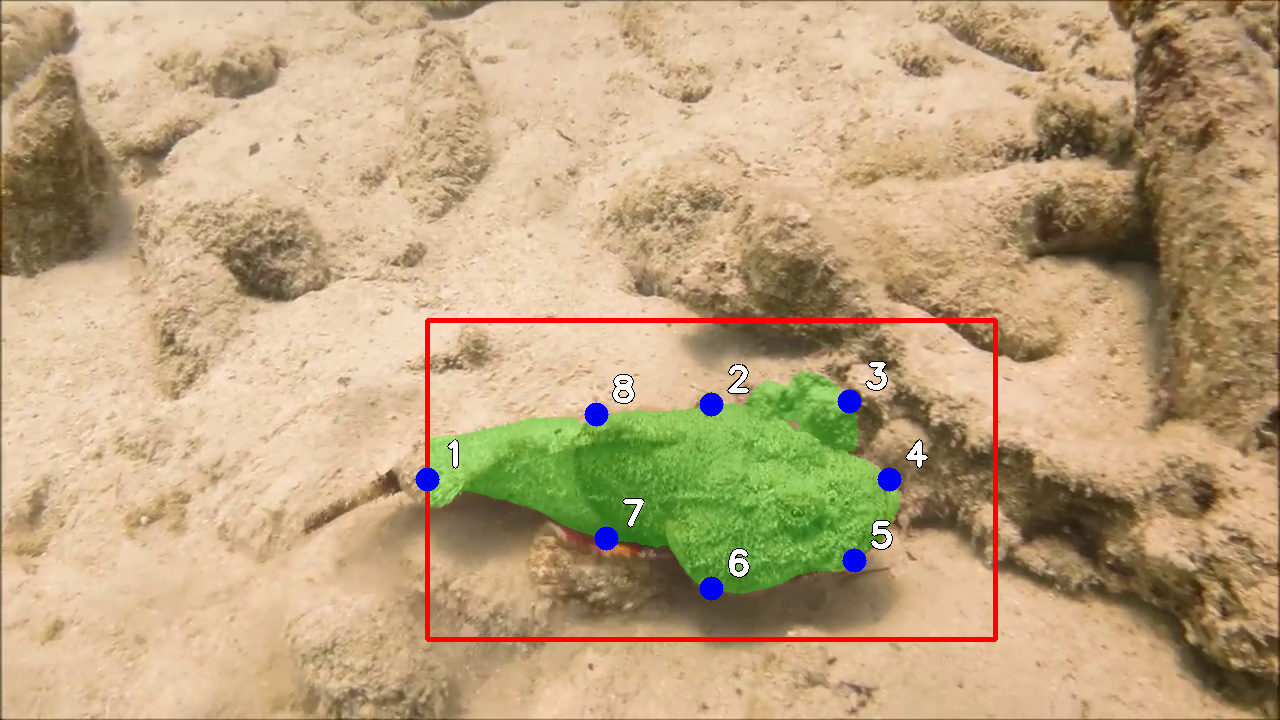
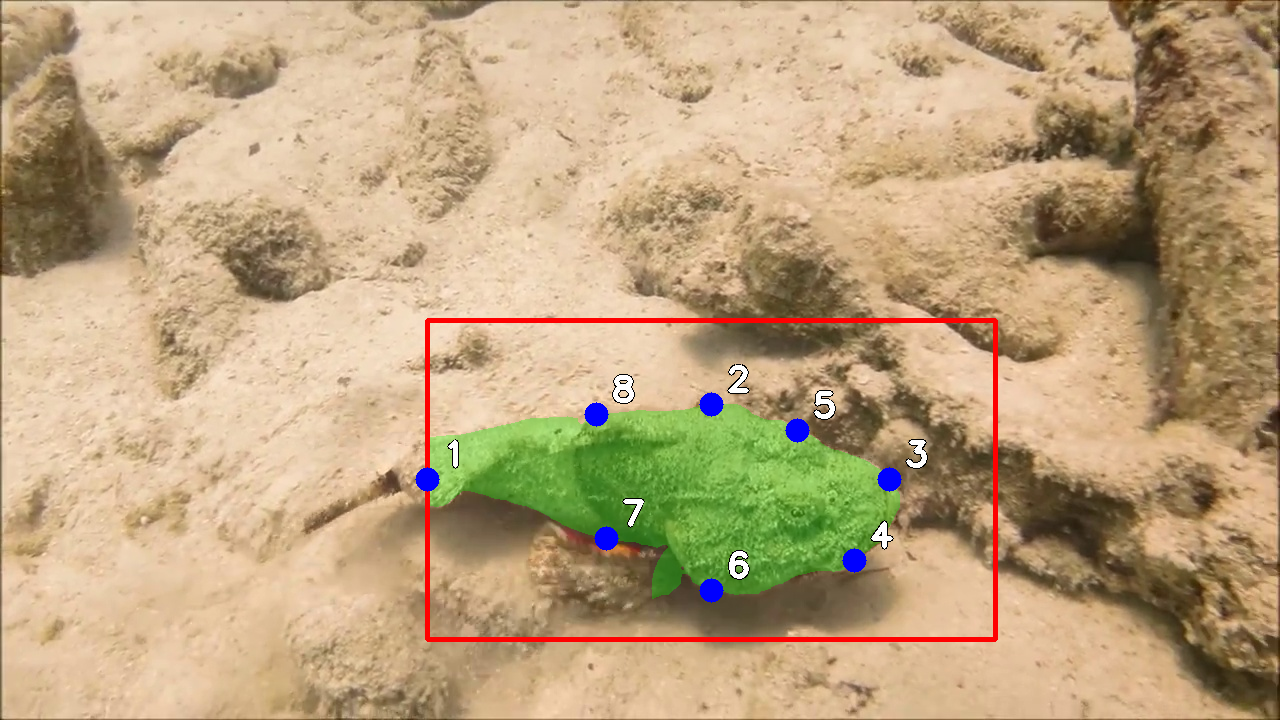
还有每次返回多个值，然后top-k更好，重复降权似乎起了作用

diff --git a/src/sculptor/vlm/prompts.py b/src/sculptor/vlm/prompts.py
@@ -11,7 +11,7 @@ def build_anchor_prompt(
     global_reason: Optional[str] = None,
     *,
     semantic: Optional[SemanticCtx] = None,
-    K: int = 1
+    K: int = 3
 ) -> Dict[str, str]:
     """
     默认每次只选择一个最重要的锚点，避免多个锚点同时优化导致的复杂性
@@ -42,8 +42,8 @@ Texture/color patterns: {_fmt_list(sem.get('texture_prior'))}
 Environment: {sem.get('scene_context') or "unknown"}
 Avoid including: {_fmt_list(sem.get('not_target_parts'))}
 
-CURRENT STATE: Yellow contour shows the current mask boundary. Anchors 1..8 mark potential refinement points.
-TASK: Select EXACTLY ONE anchor - the MOST CRITICAL point where the camouflaged {instance} boundary needs correction.
+CURRENT STATE: The green semi-transparent mask shows the current segmentation; its outer edge is the current boundary. The red rectangle is the ROI. Blue dots with white digits 1..8 mark anchor candidates. Use the printed white digit next to each blue dot as the anchor id (1..8). Do NOT infer id from position or ordering.
+TASK: Return up to TOP-{K} anchors, ranked by expected improvement (1 = best). Each candidate is the MOST CRITICAL boundary correction point you can find for the camouflaged {instance}.
 
 CRITICAL ANALYSIS: Focus on the RELATIONSHIP between {instance} and background:
 - OBJECT vs BACKGROUND: Does the current boundary correctly separate the {instance} from its environment?
@@ -68,25 +68,27 @@ Decision criteria (DO NOT OUTPUT):
 - STRUCTURAL ANALYSIS: Prioritize natural {instance} body shape over superficial color similarities
 - HABITAT INTEGRATION: Consider how {instance} naturally interacts with its environment
 - ORGANIC vs INORGANIC: Distinguish living tissue patterns from environmental textures
+- EVALUATE ALL ANCHORS: Compare all 8 anchors and internally score how much IoU improvement each could bring; choose the one with the largest expected improvement
+- TIE-BREAKERS: Prefer longer contiguous boundary errors over tiny local nicks; if two are similar, choose the one that corrects a larger visible area; avoid repeatedly picking the same anchor if the boundary there already looks correct
+- REASON STYLE: Do not copy example wording; write a short, image-specific reason; avoid the phrase missing fin edge continuity
 
 Return JSON STRICTLY:
 {{
   "anchors_to_refine": [
-    {{ "id": 1-8, "intent": "fix_leak" | "recover_miss", "reason": "short justification (no numbers)" }}
+    {{ "id": 1-8, "intent": "fix_leak" | "recover_miss", "reason": "short justification (no numbers)", "score": 0.0-1.0 }}
   ]
 }}
 Constraints:
-- EXACTLY ONE anchor in the array (len(anchors_to_refine) == 1)
+- 1 <= len(anchors_to_refine) <= {K}; return at most {K} ranked anchors (index order = rank, best first)
 - Use only ids from 1..8
+- Include optional numeric "score" in [0,1] representing your internal confidence of expected improvement; higher is better
 - Keep justifications short; no lists or numbering; no quotes in the text
-- Choose the MOST IMPORTANT anchor, not just any suitable one
+- Choose the MOST IMPORTANT anchors, not just any suitable ones
+- Do NOT rely on scene-specific or image-specific cues; use generic terms (e.g., body edge, appendage, background texture)
 
 Few-shot examples (DO NOT COPY, DO NOT ECHO; FORMAT ONLY):
-Input→ (major leak suspected near rock ripples at anchor 3, minor issue at anchor 7)
-Output→ {{"anchors_to_refine":[{{"id":3,"intent":"fix_leak","reason":"background ripples intrude"}}]}}
-
-Input→ (missing fin edge is most critical issue)
-Output→ {{"anchors_to_refine":[{{"id":5,"intent":"recover_miss","reason":"missing fin edge continuity"}}]}}
+Input→ (two strong issues: anchor 3 background leak, anchor 2 missing body edge)
+Output→ {{"anchors_to_refine":[{{"id":3,"intent":"fix_leak","reason":"background texture intrudes","score":0.82}},{{"id":2,"intent":"recover_miss","reason":"excluded body edge","score":0.78}}]}}
 """
     # 可选：把 global_reason 作为“全局上下文”补充
     if global_reason:
@@ -120,7 +122,7 @@ Key features: {_fmt_list(sem.get('salient_cues'))}
 Background mimics: {_fmt_list(sem.get('distractors'))}
 Avoid: {_fmt_list(sem.get('not_target_parts'))}
 
-Focus on anchor {anchor_id}. The square region is divided by the current boundary into:
+Focus on anchor {anchor_id}. The green mask indicates the current {instance} segmentation. The square region is divided by the current boundary into:
 - Region 1 (Inner): Toward the {instance} body/interior
 - Region 2 (Outer): Toward the background/environment
 
@@ -139,12 +141,12 @@ Decision logic (DO NOT OUTPUT):
 - KEY QUESTION: Is this part of the living {instance} organism or just environmental mimicry?
 
 Return JSON STRICTLY:
-{{
+{{{{
   "anchor_id": {anchor_id},
   "edits": [
-    {{ "region_id": 1 | 2, "action": "pos" | "neg", "why": "short justification" }}
+    {{{{ "region_id": 1 | 2, "action": "pos" | "neg", "why": "short justification" }}}}
   ]
-}}
+}}}}
 Constraints:
 - len(edits) == 1 (exactly one region selection)
 - region_id must be 1 (inner) or 2 (outer)
@@ -152,19 +154,19 @@ Constraints:
 - Keep 'why' brief and descriptive
 
 Few-shot examples (DO NOT COPY):
-{{
+{{{{
   "anchor_id": 3,
   "edits": [
-    {{ "region_id": 2, "action": "neg", "why": "sand ripple background leak" }}
+    {{{{ "region_id": 2, "action": "neg", "why": "background texture leak" }}}}
   ]
-}}
+}}}}
 
-{{
+{{{{
   "anchor_id": 5,
   "edits": [
-    {{ "region_id": 1, "action": "pos", "why": "fin texture continues inward" }}
+    {{{{ "region_id": 1, "action": "pos", "why": "body texture continues inward" }}}}
   ]
-}}
+}}}}
 """
     # 可选：附加来自上一轮 anchor 决策的线索
     if anchor_hint:

diff --git a/clean_sam_sculpt.py b/clean_sam_sculpt.py
@@ -612,6 +612,12 @@ def main():
 
     # 迭代优化
     max_rounds = int(args.rounds)
+
+    # 最近一次选择与效果，用于重复降权
+    prev_selected_anchor_id: Optional[int] = None
+    prev_change_pixels: Optional[int] = None
+    min_change_threshold = 500  # 小于该像素变化视为收益很小，可考虑替换为次优候选
+
     for round_idx in range(max_rounds):
         print(f"\n=== 第 {round_idx + 1} 轮优化 ===")
 
@@ -628,11 +634,37 @@ def main():
         anchor_vis_vlm = _resize_for_vlm(anchor_vis, int(args.vlm_max_side))
         anchor_response = vlm.choose_anchors(anchor_vis_vlm, instance_name, global_reason=semantic_reason)
         selected_anchors = anchor_response.get('anchors_to_refine', [])
+
+        # 选择逻辑：支持top-k，默认使用第一个；若与上一轮相同且上一轮收益很小，则尝试次优候选
+        chosen_anchor = None
+        if isinstance(selected_anchors, list) and selected_anchors:
+            chosen_anchor = selected_anchors[0]
+            if prev_selected_anchor_id is not None and prev_change_pixels is not None:
+                same_as_prev = int(chosen_anchor.get('id', -1)) == int(prev_selected_anchor_id)
+                if same_as_prev and prev_change_pixels < min_change_threshold and len(selected_anchors) > 1:
+                    # 可选：仅当次优评分不明显更差时才替换（差距<=0.05）
+                    top_score = chosen_anchor.get('score', None)
+                    for alt in selected_anchors[1:]:
+                        alt_id = int(alt.get('id', -1))
+                        if not (1 <= alt_id <= 8):
+                            continue
+                        if alt_id == prev_selected_anchor_id:
+                            continue
+                        alt_score = alt.get('score', None)
+                        if top_score is None or alt_score is None or float(alt_score) >= float(top_score) - 0.05:
+                            print(f"[去重降权] 上一轮锚点{prev_selected_anchor_id}改变量较小({prev_change_pixels}px)，本轮优先改用次优候选锚点{alt_id}")
+                            chosen_anchor = alt
+                            break
+            # 最终仅使用一个锚点进入后续流程
+            selected_anchors = [chosen_anchor]
         
-        # VLM现在应该只返回一个锚点，但保持兼容性，只取第一个
-        if len(selected_anchors) > 1:
-            print(f"[INFO] VLM返回了{len(selected_anchors)}个锚点，但只使用第一个最重要的")
-            selected_anchors = selected_anchors[:1]
+        # VLM现在可能返回多个锚点，保持兼容：如果依然为空则fallback
+        if not selected_anchors:
+            print("[WARN] VLM未选择任何锚点，使用fallback策略选择锚点1")
+            print(f"[DEBUG] VLM原始响应: '{anchor_response.get('raw_text', 'N/A')}'")
+            fallback_anchor = {"id": 1, "reason": "fallback selection when VLM returned empty"}
+            selected_anchors = [fallback_anchor]
+            print(f"[INFO] 使用fallback锚点: {selected_anchors}")
 
         # Fallback: if VLM returns no anchors, use a default anchor to keep pipeline going
         if not selected_anchors:
@@ -727,11 +759,17 @@ def main():
             # 清理GPU缓存以释放内存
             import torch
             torch.cuda.empty_cache()
+            # 在分割前保存旧掩码以计算变化像素
+            old_mask = (current_mask > 0).astype(np.uint8)
             current_mask, updated_roi_box = refine_mask_with_points(
                 predictor, image, roi_box,
                 all_pos_points, all_neg_points, current_mask, square_size,
                 allowed_update_mask=allowed_update_mask,
             )
+            # 记录本轮掩码变化像素数（仅用于下一轮的去重降权判断）
+            new_mask_bin = (current_mask > 0).astype(np.uint8)
+            change_pixels = int(np.sum(old_mask ^ new_mask_bin))
+            print(f"[变化] 本轮掩码改变像素: {change_pixels}")
             # 更新ROI框供下一轮使用
             if (updated_roi_box.x0 != roi_box.x0 or updated_roi_box.y0 != roi_box.y0 or 
                 updated_roi_box.x1 != roi_box.x1 or updated_roi_box.y1 != roi_box.y1):
@@ -740,8 +778,15 @@ def main():
             
             save_image(os.path.join(output_dir, f'round{round_idx + 1}_step4_refined_mask.png'), current_mask)
             print(f"优化后掩码像素数: {np.sum(current_mask > 0)}")
+
+            # 记录用于下一轮的重复降权信息（本轮实际使用的锚点）
+            if selected_anchors:
+                prev_selected_anchor_id = int(selected_anchors[0].get('id', -1))
+                prev_change_pixels = change_pixels
         else:
             print("未生成任何点，跳过本轮优化")
+            # 若无点生成，则视为变化为0
+            prev_change_pixels = 0
 
     # 保存最终结果
     save_image(os.path.join(output_dir, 'final_result.png'), current_mask)

diff --git a/src/sculptor/vlm/qwen.py b/src/sculptor/vlm/qwen.py
@@ -90,13 +90,27 @@ class QwenVLM(VLMBase):
         data = try_parse_json(text)
         anchors = data.get("anchors_to_refine", [])
 
-        # Normalize if available
+        # Normalize if available; support optional score and keep order (ranked best-first)
         norm: list[dict] = []
         for it in anchors if isinstance(anchors, (list, tuple)) else []:
             try:
-                norm.append({"id": int(it.get("id", 0)), "reason": str(it.get("reason", ""))})
+                aid = int(it.get("id", 0))
+                rsn = str(it.get("reason", ""))
+                sc = it.get("score", None)
+                try:
+                    sc = float(sc) if sc is not None else None
+                except Exception:
+                    sc = None
+                norm.append({"id": aid, "reason": rsn, **({"score": sc} if sc is not None else {})})
             except Exception:
                 pass
+
+        # If score exists, sort by score desc while preserving given order for ties
+        if norm and any("score" in a for a in norm):
+            norm = sorted(
+                norm,
+                key=lambda x: (-(x.get("score", -1.0)), ),
+            )
 
         # Heuristic salvage if empty
         if not norm:
@@ -180,10 +194,22 @@ class QwenVLM(VLMBase):
             result["anchors_to_refine"] = []
         
         # 验证每个锚点的格式
+        valid = []
         for i, anchor in enumerate(result["anchors_to_refine"]):
-            if not isinstance(anchor, dict) or 'id' not in anchor:
+            if isinstance(anchor, dict) and 'id' in anchor:
+                try:
+                    anchor['id'] = int(anchor['id'])
+                    if 'score' in anchor:
+                        try:
+                            anchor['score'] = float(anchor['score'])
+                        except Exception:
+                            anchor.pop('score', None)
+                    valid.append(anchor)
+                except Exception:
+                    print(f"[ERROR] Invalid anchor id at index {i}")
+            else:
                 print(f"[ERROR] Invalid anchor format at index {i}, removing")
-                result["anchors_to_refine"].pop(i)
+        result["anchors_to_refine"] = valid
         
         return result
 

diff --git a/run.md b/run.md
@@ -12,7 +12,7 @@ python refactor_sam_sculpt.py --name f --max_anchor_uses 1
 # 每个锚点可以使用3次（宽松模式）  
 python refactor_sam_sculpt.py --name f --max_anchor_uses 3
 
-python refactor_sam_sculpt.py --name f --ratio 0.6 --vlm_max_side 1024 --rounds 5 
+python clean_sam_sculpt.py --name f --ratio 0.6 --vlm_max_side 720 --rounds 5 
 
 
 
